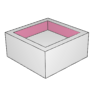
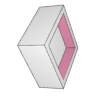
Modified tool bar for 3d mode

diff --git a/web/app/3d/ui/ctrl.js b/web/app/3d/ui/ctrl.js
@@ -60,12 +60,14 @@ function UI(app) {
 
 UI.prototype.createCraftToolBar = function (vertPos) {
   var toolBar = new ToolBar(this.app);
-  toolBar.add(this.app.actionManager.actions['EditFace']);
-  toolBar.add(this.app.actionManager.actions['CUT']);
-  toolBar.add(this.app.actionManager.actions['PAD']);
   toolBar.add(this.app.actionManager.actions['PLANE']);
-  toolBar.add(this.app.actionManager.actions['BOX']);
-  toolBar.add(this.app.actionManager.actions['SPHERE']);
+  toolBar.add(this.app.actionManager.actions['EditFace']);
+  toolBar.add(this.app.actionManager.actions['PAD']);
+  toolBar.add(this.app.actionManager.actions['CUT']);
+  toolBar.add(this.app.actionManager.actions['REVOLVE']);  
+  
+  
+
   $('#viewer-container').append(toolBar.node);
   toolBar.node.css({left: '10px',top : vertPos + 'px'});
   return toolBar;

diff --git a/web/app/3d/operations.js b/web/app/3d/operations.js
@@ -2,7 +2,7 @@ import * as math from '../math/math'
 
 export const CUT = {
   icon: 'img/3d/cut',
-  label: 'Cut', 
+  label: 'Cut',
   info: (p) => '(' + r(math.norm2(p.target)) + ')'
 };
 
@@ -13,7 +13,7 @@ export const PAD = {
 };
 
 export const REVOLVE = {
-  icon: 'img/3d/shell',
+  icon: 'img/3d/revolve',
   label: 'Revolve',
   info: (p) => '(' + p.angle + ')'
 };
